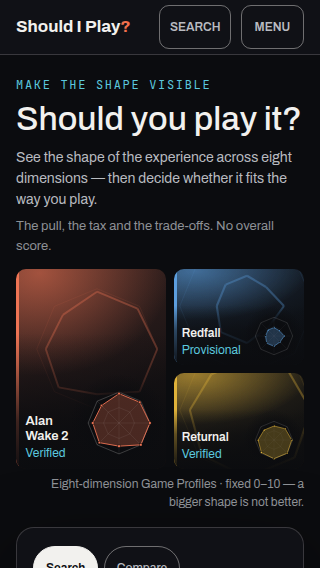
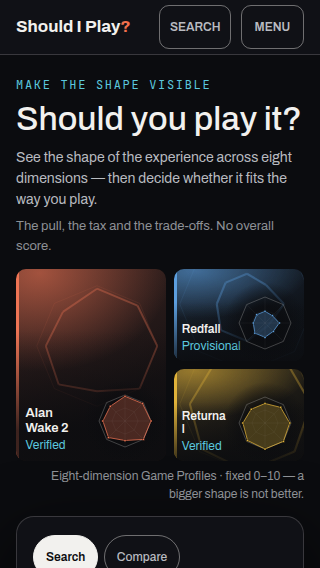
fix: owner-review corrections — visible Search label, 72/64px fingerprints, tokens only
Three production-contract corrections from the owner review of PR #49:

- The console's Search field keeps its persistent visible label (handoff
  6.2, matrix H-01); the phone mosaic is trimmed to 216px and the console
  padding tightened so the labelled field still holds inside 390x667 in
  every Chromium build CI runs.
- Opening fingerprints use the handoff 7.1 production targets on every
  tile: 72px desktop, 64px mobile.
- No raw colour values in home-opening.css: scrims, the fingerprint well
  and the console shadow use the contract's overlay tokens, and the new
  radar skins use the border tokens.

Drift log F-05 and F-13 are rewritten so they no longer record a departure
from the handoff; F-19 records the token rule. Tests pin the label and the
fingerprint sizes.

Claude-Session: https://claude.ai/code/session_01H9hxDm9nrLYf4oEz3ZFUFy

diff --git a/components/home/home-opening.css b/components/home/home-opening.css
@@ -9,7 +9,7 @@
 
      - THE HERO IS COMPACT. The specimen's 420px mosaic is 360px here so the
        hero stays inside the handoff's ~27.5rem maximum (ADR 0030 owner
-       refinement); 228px on the phone against A2's 250. Content and zoom may make it
+       refinement); 216px on the phone against A2's 250. Content and zoom may make it
        taller; nothing is clipped to hold a specimen height.
      - AT 390×667 THE HEADER, THE WHOLE HERO AND THE SEARCH INPUT ARE ON SCREEN
        WITHOUT SCROLLING (matrix H-01). Artwork depth gives way first on a
@@ -122,15 +122,15 @@
 }
 
 /* One game at scale in the left column, two stacked beside it — the same
-   grammar at every width, 228px tall on the phone (250 on A2, trimmed with the
-   same owner refinement that shortens the desktop hero) and 360px on the
-   desktop. */
+   grammar at every width, 216px tall on the phone (250 on A2, trimmed with the
+   same owner refinement that shortens the desktop hero, so the labelled field
+   still fits 390×667) and 360px on the desktop. */
 .sip-open__tiles {
   display: grid;
   grid-template-columns: 1.15fr 1fr;
   grid-template-rows: 1fr 1fr;
   gap: 0.5rem;
-  height: 14.25rem;
+  height: 13.5rem;
   margin: 0;
   padding: 0;
   list-style: none;
@@ -139,7 +139,7 @@
 /* A short phone: artwork depth gives way first (handoff §3.4). */
 @media (max-height: 40rem) {
   .sip-open__tiles {
-    height: 12.5rem;
+    height: 12rem;
   }
 }
 
@@ -221,25 +221,26 @@
   object-fit: cover;
 }
 
-/* The specimen's scrim: near-solid at the plate, clear by two thirds up. */
+/* The scrim, from the contract's overlay tokens: strong at the plate, soft
+   a third of the way up, clear by two thirds. */
 .sip-open__scrim {
   position: absolute;
   inset: 0;
   background: linear-gradient(
     0deg,
-    rgba(11, 12, 15, 0.96) 0%,
-    rgba(11, 12, 15, 0.6) 36%,
-    rgba(11, 12, 15, 0) 62%
+    var(--color-overlay-scrim-strong) 0%,
+    var(--color-overlay-scrim-soft) 40%,
+    transparent 64%
   );
 }
 
 .sip-open__tile.is-lead .sip-open__scrim {
   background: linear-gradient(
     0deg,
-    rgba(11, 12, 15, 0.97) 0%,
-    rgba(11, 12, 15, 0.78) 24%,
-    rgba(11, 12, 15, 0.25) 52%,
-    rgba(11, 12, 15, 0) 68%
+    var(--color-overlay-scrim-strong) 0%,
+    var(--color-overlay-scrim-strong) 16%,
+    var(--color-overlay-scrim-soft) 48%,
+    transparent 68%
   );
 }
 
@@ -360,12 +361,12 @@
 }
 
 /* The integrated fingerprint, in a soft well so the polygon stays legible over
-   any artwork under it. Sized as the accepted tiles size it: large in the
-   lead tile, smaller in the two beside it, smaller again on the phone. */
+   any artwork under it. 64px on the phone and 72px on the desktop on every
+   tile — the production targets handoff §7.1 fixes for the opening. */
 .sip-open__fingerprint {
   position: relative;
   flex: 0 0 auto;
-  width: 2.875rem;
+  width: var(--size-radar-compact-mobile);
 }
 
 .sip-open__fingerprint::before {
@@ -374,8 +375,8 @@
   inset: -14%;
   background: radial-gradient(
     closest-side,
-    rgba(11, 12, 15, 0.88) 42%,
-    rgba(11, 12, 15, 0) 100%
+    var(--color-overlay-scrim-strong) 42%,
+    transparent 100%
   );
 }
 
@@ -383,17 +384,9 @@
   position: relative;
 }
 
-.sip-open__tile.is-lead .sip-open__fingerprint {
-  width: 4.75rem;
-}
-
 @container (min-width: 60em) {
   .sip-open__fingerprint {
-    width: 6rem;
-  }
-
-  .sip-open__tile.is-lead .sip-open__fingerprint {
-    width: 7.5rem;
+    width: var(--size-radar-compact);
   }
 }
 
@@ -429,7 +422,7 @@
   width: 100%;
   max-width: var(--size-content-max);
   margin: 0 auto;
-  padding: 1rem var(--size-gutter-mobile) var(--space-6);
+  padding: 0.8rem var(--size-gutter-mobile) var(--space-6);
 }
 
 @media (min-width: 40rem) {
@@ -445,7 +438,7 @@
   background: var(--color-surface-chrome);
   border: var(--border-thin) solid var(--color-border-default);
   border-radius: var(--radius-feature);
-  box-shadow: 0 24px 70px rgba(0, 0, 0, 0.5);
+  box-shadow: 0 24px 70px var(--color-overlay-modal);
 }
 
 @media (min-width: 40rem) {
@@ -540,19 +533,11 @@
   }
 }
 
-/* The filled "Search" pill above is the region's visible name; the field's own
-   label is kept for the accessible name and taken out of the paint, so the
-   word is not printed twice a line apart (drift log F-15). */
+/* The field keeps its persistent visible label (handoff §6.2, matrix H-01):
+   the pill above names the selected journey, the label names the control. */
 .sip-open__search .sip-search__label {
-  position: absolute;
-  width: 1px;
-  height: 1px;
-  margin: -1px;
-  padding: 0;
-  overflow: hidden;
-  clip: rect(0, 0, 0, 0);
-  white-space: nowrap;
-  border: 0;
+  margin-bottom: 0.35rem;
+  color: var(--color-text-muted);
 }
 
 .sip-open__search .sip-search__well {

diff --git a/tests/e2e/homepage.spec.ts b/tests/e2e/homepage.spec.ts
@@ -514,6 +514,38 @@ test.describe("conformance to the accepted composition", () => {
     }
   });
 
+  test("uses the handoff's compact fingerprint sizes on every tile", async ({
+    page,
+  }) => {
+    // Handoff §7.1: 72px desktop, 64px mobile — the production targets, not
+    // the specimen's larger hero radars.
+    for (const [width, height, expected] of [
+      [1440, 900, 72],
+      [390, 667, 64],
+    ] as const) {
+      await page.setViewportSize({ width, height });
+      await page.goto("/");
+      const widths = await page
+        .locator(".sip-open__fingerprint")
+        .evaluateAll((nodes) => nodes.map((node) => node.getBoundingClientRect().width));
+      expect(widths).toHaveLength(3);
+      for (const w of widths) expect(w).toBeCloseTo(expected, 0);
+    }
+  });
+
+  test("keeps a visible label on the Search field in the console", async ({
+    page,
+  }) => {
+    await page.setViewportSize({ width: 390, height: 667 });
+    await page.goto("/");
+    const label = page.locator(".sip-open__search .sip-search__label");
+    await expect(label).toBeVisible();
+    const box = (await label.boundingBox())!;
+    // Real, painted text — not a clipped 1px box — inside the first viewport.
+    expect(box.height).toBeGreaterThan(10);
+    expect(box.y + box.height).toBeLessThanOrEqual(667);
+  });
+
   test("paints no broken-image glyph when artwork fails to load", async ({
     page,
   }) => {

diff --git a/app/(public)/page.tsx b/app/(public)/page.tsx
@@ -226,8 +226,8 @@ function ProfileExplainer({ example }: { example: ProfileView }) {
 
 /** The instrument's skin on the canvas: the shared dark grammar, contract tokens. */
 const EXPLAINER_SKIN = {
-  grid: "rgba(242,241,238,0.20)",
-  gridOuter: "rgba(242,241,238,0.46)",
+  grid: "var(--color-border-default)",
+  gridOuter: "var(--color-border-strong)",
   fill: "var(--sip-accent-lift)",
   fillOpacity: 0.35,
   stroke: "var(--sip-accent-lift)",

diff --git a/components/home/HomeOpening.tsx b/components/home/HomeOpening.tsx
@@ -285,8 +285,8 @@ function Tile({ profile, lead }: { profile: ProfileView; lead: boolean }) {
  * own identity and never its quality.
  */
 const FINGERPRINT_SKIN = {
-  grid: "rgba(242,241,238,0.24)",
-  gridOuter: "rgba(242,241,238,0.48)",
+  grid: "var(--color-border-default)",
+  gridOuter: "var(--color-border-strong)",
   fill: "var(--sip-accent-lift)",
   fillOpacity: 0.28,
   stroke: "var(--sip-accent-lift)",

diff --git a/components/home/ProfilePoster.tsx b/components/home/ProfilePoster.tsx
@@ -138,8 +138,8 @@ export function ProfilePoster({ profile }: { profile: ProfileView }) {
  * identity and never its quality.
  */
 const POSTER_MARK_SKIN = {
-  grid: "rgba(242,241,238,0.24)",
-  gridOuter: "rgba(242,241,238,0.48)",
+  grid: "var(--color-border-default)",
+  gridOuter: "var(--color-border-strong)",
   fill: "var(--sip-accent-lift)",
   fillOpacity: 0.32,
   stroke: "var(--sip-accent-lift)",

diff --git a/docs/design/Should_I_Play_Deliberate_Drift_Log.md b/docs/design/Should_I_Play_Deliberate_Drift_Log.md
@@ -137,8 +137,8 @@ not publication truth and were not copied.
 | F-01 | Opening, structure | A1/A2 hero + console | The opening is now the accepted two-part composition: a hero (proposition beside a fixed-width mosaic on desktop; proposition above it on the phone) followed by a full-width console panel carrying the journey pills and the Search field. Slices 1–2 had set Search and the journey labels inside the left hero column, with the mosaic beside them | Faithfulness. The accepted A1/A2 place Search in a panel under the hero on both frames; ADR 0030 "without an introductory scroll" and the handoff's "header + hero + at least 12rem of the Search region" arithmetic describe exactly that order | `components/home/HomeOpening.tsx`; `home-opening.css`; `tests/e2e/homepage.spec.ts` "puts the console after the hero in the focus order" | Claude / 2026-09-02 | none |
 | F-02 | Opening, journey switcher | A1/A2 `role="tablist"` pills; handoff §5.2 | Search / Compare / What should I play? are pills in the console — Search filled, Compare outlined and a real link, What should I play? quiet text without a boundary — with the Search field directly beneath as the selected panel. Still a marked list, not an ARIA tablist (B-07 carried) | Faithfulness to the accepted pill grammar; B-07's reason still holds (no colocated region is switched, so a tab that did nothing would misdescribe the product). The unbuilt journey is deliberately not drawn as a control | `HomeOpening.tsx` `Journeys`; `tests/e2e/search.spec.ts` "leads with the question"; `homepage.spec.ts` "puts the Search field directly under a switcher that has Search selected" | Claude / 2026-09-02 | becomes a tablist when a second journey has a panel |
 | F-03 | Opening, Search action | A1/A2 cyan "Search" action in the well | The inline field carries the accepted cyan Search button. It does what Enter does — opens the highlighted row, else the query's one exact match — and otherwise returns focus to the field; it never navigates on a guess. Its accessible name is "Search the guide" so the header's "Search" opener stays unique | Faithfulness; ADR 0031 (no navigation on a guess) | `components/search/SearchField.tsx`; `search.css` `.sip-search__submit` | Claude / 2026-09-02 | none |
-| F-04 | Opening, mosaic geometry | A1 560×420, `1.15fr 1fr` × `1fr 1fr`; A2 390-wide × 250 | The same geometry at every width: one game spanning both rows of the left column, two stacked beside it. Desktop height is 360px rather than 420; phone height is 228px rather than 250, and the mosaic caption uses A2's shorter sentence at every width | ADR 0030 owner refinement (section A): the hero is modestly shorter so Search gains prominence; 360 keeps the hero, with its caption, inside the handoff's ~27.5rem, and 228 with the two-line caption keeps the Search input inside 390×667 in every Chromium build CI runs (the longer A1 caption wrapped to three lines on the CI browser and pushed the field 13px past the fold) | `home-opening.css` `.sip-open__tiles`; `homepage.spec.ts` "keeps the accepted mosaic geometry" and "keeps the desktop hero inside its 27.5rem maximum" | Claude / 2026-09-02 | none |
-| F-05 | Opening, fingerprints | A1 148px lead / 96px small; A2 76px / 46px; handoff §7.1 "72px desktop and 64px mobile targets" | Integrated in the plate beside the words, as the specimen composes them: 120px lead / 96px small on desktop, 76px / 46px on the phone | The accepted composition ("hero radars integrated into their tiles and substantially larger", Rev 5 changelog) is owned by ADR 0030; the handoff's 72/64 targets describe the compact rail level, which the poster mark keeps. The lead fingerprint is trimmed from 148 to 120 so the published one-line experience — three times the specimen's length — keeps a readable column. All are decorative (`aria-hidden`); the shape is stated in text in every tile | `home-opening.css` `.sip-open__fingerprint` | Claude / 2026-09-02 | owner may prefer the full 148px lead fingerprint |
+| F-04 | Opening, mosaic geometry | A1 560×420, `1.15fr 1fr` × `1fr 1fr`; A2 390-wide × 250 | The same geometry at every width: one game spanning both rows of the left column, two stacked beside it. Desktop height is 360px rather than 420; phone height is 216px rather than 250, and the mosaic caption uses A2's shorter sentence at every width | ADR 0030 owner refinement (section A): the hero is modestly shorter so Search gains prominence; 360 keeps the hero, with its caption, inside the handoff's ~27.5rem, and 216 with the two-line caption and the visible field label keeps the Search input inside 390×667 in every Chromium build CI runs (the longer A1 caption wrapped to three lines on the CI browser and pushed the field 13px past the fold) | `home-opening.css` `.sip-open__tiles`; `homepage.spec.ts` "keeps the accepted mosaic geometry" and "keeps the desktop hero inside its 27.5rem maximum" | Claude / 2026-09-02 | none |
+| F-05 | Opening, fingerprints | A1 148px lead / 96px small; A2 76px / 46px; handoff §7.1 "72px desktop and 64px mobile targets" | Integrated in the plate beside the words, as the specimen composes them, at the handoff's production targets on every tile: 72px on the desktop, 64px on the phone | The Aug-31 handoff is the newer production correction and owns the target sizes under §7.1 Opening composition; the artifact's larger hero radars are specimen geometry. Owner review of PR #49 confirmed this reading. All are decorative (`aria-hidden`); the shape is stated in text in every tile | `home-opening.css` `.sip-open__fingerprint`; `tests/e2e/homepage.spec.ts` "uses the handoff's compact fingerprint sizes" | Tomas / 2026-09-03 | none |
 | F-06 | Opening, tile copy | A1/A2 tile plates | Title, one-line experience (lead tile, desktop only) and evidence status; no commitment band; the "Game Profile · 8 dimensions · 0–10" cue is carried once by the caption under the mosaic | Content truth (no approved commitment record — ADR 0032, handoff §4.3) and responsive stress: the published one-liners filled a 190px phone tile. The sentence is one click away and in the rail's preview | `HomeOpening.tsx` `Tile`; `tests/e2e/search.spec.ts` "shows three profiles, each with a text equivalent of its shape" | Claude / 2026-09-02 | none |
 | F-07 | Opening and poster rail, artless territory | A1/A2 sleeves (spine + uppercase title); handoff §4.2, §8.1; E-10 | Every artless tile and poster paints the game's own eight-axis outline faint and large across its accent wash (`ShapeFragment`), under any artwork, with the fingerprint in its corner; the specimen's tiny uppercase sleeve title is not reproduced (the title is set once, in the plate) | Art-led/artless parity with the grammar the Compare territory already uses, so one game is recognisably itself in all three places; a second title inside the frame at 10px would break the 12px floor | `components/home/ShapeFragment.tsx`; `.sip-open__fragment`; `.sip-poster__fragment` | Claude / 2026-09-02 | none. B-09 (no cleared artwork) is unchanged |
 | F-08 | Mosaic and poster artwork | Handoff §4.2 "where the adjacent title already names the game, artwork uses empty alt text" | `alt=""` on every mosaic tile and poster image | Contract, and a defect: with a non-empty alt, Chromium paints a broken-image glyph over the territory when review-clearance art fails to load — the "no broken-image state" the matrix forbids | `HomeOpening.tsx`; `ProfilePoster.tsx`; `tests/home-rail.test.ts`; `homepage.spec.ts` "paints no broken-image glyph" | Claude / 2026-09-02 | none |
@@ -146,9 +146,10 @@ not publication truth and were not copied.
 | F-10 | Poster preview control | A1 hover/focus overlay; handoff §7.2 explicit disclosure; B-08 | "Preview" remains an explicit disclosure button under the poster (B-08 carried), now sentence-case Archivo at the small size rather than a 12px uppercase key | Handoff §7.2 and brief §6 ("avoid uppercase everywhere"); the control keeps its 44px target, boundary and `aria-expanded` state | `home-sections.css` `.sip-poster__disclose` | Claude / 2026-09-02 | none |
 | F-11 | Public chrome | A1 header ~63px, A2 ~54px; handoff §5.1 | One compact row at both widths on the contract's chrome surface. Below the content breakpoint the row is wordmark + Search opener + one **Menu** disclosure holding Compare and How we score; above it the links are in the row. The specimen's "Profiles", "Method" and "About" links are not reproduced: no all-profiles or About route exists, and "How we score" is the product's chosen label | Conformance and content truth. Since E-17 added Compare, the row had wrapped to two lines (98px) on every 390px phone at normal text, which B-10 had said happened only at 200%; the legacy graphite read as a lighter band above the canvas | `components/SiteChrome.tsx`; `components/ChromeNav.tsx`; `components/site-chrome.css`; `homepage.spec.ts` "the public chrome on a phone" | Claude / 2026-09-02 | supersedes B-10's "nothing wraps at any ordinary size" — true again; the row still wraps at 390 with 200% text, as B-10 allows |
 | F-12 | Wordmark | A1–A6, C1–C4 wordmark: Archivo 700, normal width, sentence case, coral "?" | The header and footer set the wordmark as every accepted screen does. The condensed uppercase logotype came from the D3/ADR 0013 system, which ADR 0030 superseded | Faithfulness to the accepted screens. Scoped to the chrome; the `sip-wordmark` class and the share card are unchanged | `site-chrome.css` `.sip-chrome__wordmark, .sip-foot__wordmark` | Claude / 2026-09-02 | owner may confirm the wordmark treatment for the share card too |
-| F-13 | Opening, Search label | Handoff §6.2 "persistent visible label"; A1/A2 filled "Search" pill | In the console the field's own `<label>` is visually hidden and the filled Search pill is the region's visible name; the label still gives the combobox its accessible name | Faithfulness: the accepted console names the field with the selected pill, and printing "Search" twice a line apart read as an error. The header dialog keeps its visible label | `home-opening.css` `.sip-open__search .sip-search__label` | Claude / 2026-09-02 | none |
+| F-13 | Opening, Search label | Handoff §6.2 "persistent visible label"; matrix H-01; A1/A2 filled "Search" pill | The field keeps its persistent visible label under the pills; the pill names the selected journey, the label names the control. An earlier revision of this pass hid the label visually and was corrected on owner review | Contract. Decorative depth and spacing were reduced first (216px phone mosaic, tighter console padding) so the labelled field still holds inside 390×667 | `home-opening.css` `.sip-open__search .sip-search__label`; `tests/e2e/homepage.spec.ts` 390×667 assertions | Tomas / 2026-09-03 | none |
 | F-14 | "What you are looking at" explainer | A1/A2 have no methodology explainer; A1 ends with an "Every profile in the guide" A–Z panel | The explainer is retained (Master Plan §5.1 lists "the explanation" in the implemented route) but moved onto the contract tokens, with the labelled SVG radar replaced by the label-free profile geometry and the eight exact values as an HTML list. The A–Z panel is not added: with three profiles it would repeat the rail (B-01) | ADR 0030 safeguard ("genuinely readable labels or an aligned exact-value list"; SVG text fell below the 12px floor at 320px); scope | `app/(public)/page.tsx` `ProfileExplainer`; `home-sections.css` `.sip-explainer*` | Claude / 2026-09-02 | owner may remove the explainer or add the A–Z panel when the catalogue outgrows the rail |
 | F-15 | Opening and explainer layout | Handoff §3.4 "content-first"; "at 200% zoom, all pages become a single reading column where necessary" | The two-column compositions switch on by container width measured in `em`, not by viewport media queries | Responsive stress. A viewport query cannot see a 200% root text size; at 1280px with the root doubled the wide grid overflowed the document sideways (WCAG 1.4.10). Container queries in the reader's own text size give the single column the handoff asks for | `home-opening.css` `container-type`, `@container (min-width: 60em)`; `home-sections.css`; 200% assertions in `homepage.spec.ts` | Claude / 2026-09-02 | none |
 | F-16 | Opening, preview rights notice | ADR 0012; A1 "Private design-only" badge | On a preview build the rights notice for review-clearance mosaic art renders after the console, not under the mosaic | So an accountability line never displaces the accepted composition or pushes Search out of the 390×667 viewport; production carries no notice | `HomeOpening.tsx` | Claude / 2026-09-02 | none |
 | F-17 | Document ground | Handoff §2.2 "a dark public ground with one deliberate warm editorial surface" | `body` still paints the legacy warm paper (`--color-page`); every homepage band paints the canvas itself, so nothing light shows on the homepage | Scope. The methodology page still reads on that light ground and is outside this homepage pass | `app/globals.css` compatibility layer | Claude / 2026-09-02 | migrate `body` to `color.surface.canvas` when the methodology page moves onto the contract |
 | F-18 | Authored shelves and "Choosing between…" | A1 shelf grammars (16:10 grid, list cards, 16:9 cards) and duel cards | Unchanged in this pass: both regions still render nothing (B-04, B-05) and the shelf component still reuses the poster rail grammar rather than A1's per-shelf card grammars | Content truth and scope: no approved collection or pair exists, so the accepted grammars have nothing to render against | `content/home-shelves.ts`; `content/curated-compare.ts` | Claude / 2026-09-02 | implement A1's shelf and duel card grammars when the first approved collection or pair exists |
+| F-19 | Opening, colour values | Handoff §3.1 "raw colour values belong in the token layer" | Scrims, the fingerprint well, the console shadow and the radar grid skins in the new homepage code use the contract's overlay and border tokens; no raw `rgba()` is introduced in `home-opening.css`. The specimen's scrim stops (0.97/0.78/0.25) are approximated by the `scrimStrong`/`scrimSoft` tokens | Contract, confirmed on owner review of PR #49. No new token was needed; the pre-existing raw skin values in `components/profile/radar.tsx` (`GRAPHITE_SKIN`) are outside this pass | `home-opening.css`; `HomeOpening.tsx` `FINGERPRINT_SKIN`; `ProfilePoster.tsx`; `app/(public)/page.tsx` `EXPLAINER_SKIN` | Tomas / 2026-09-03 | migrate `GRAPHITE_SKIN` when the profile instrument next moves |
